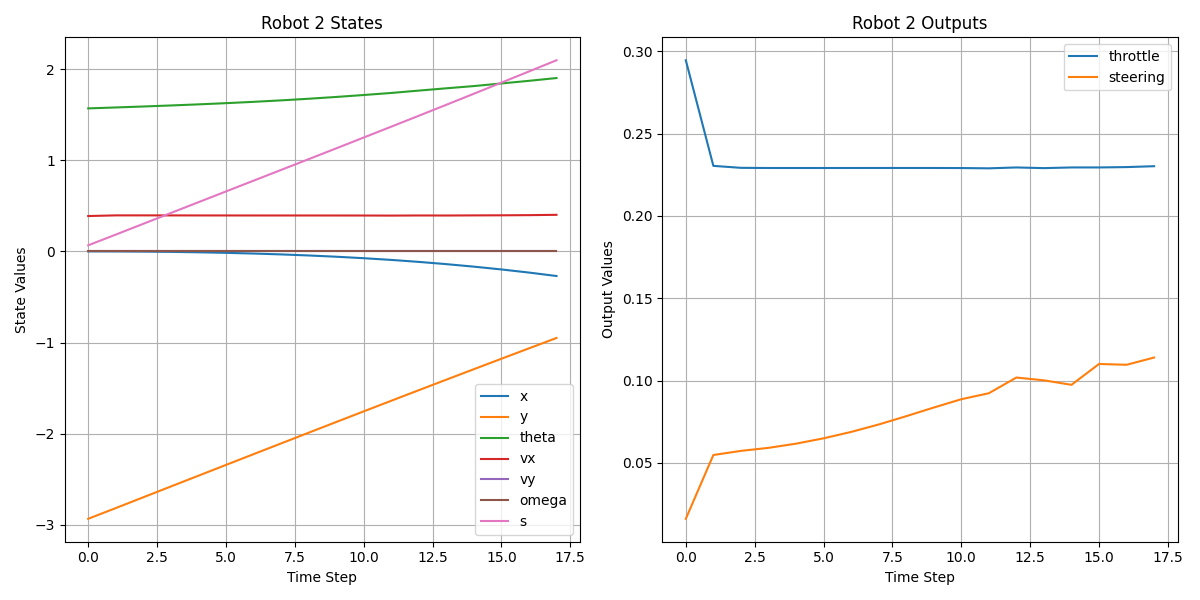
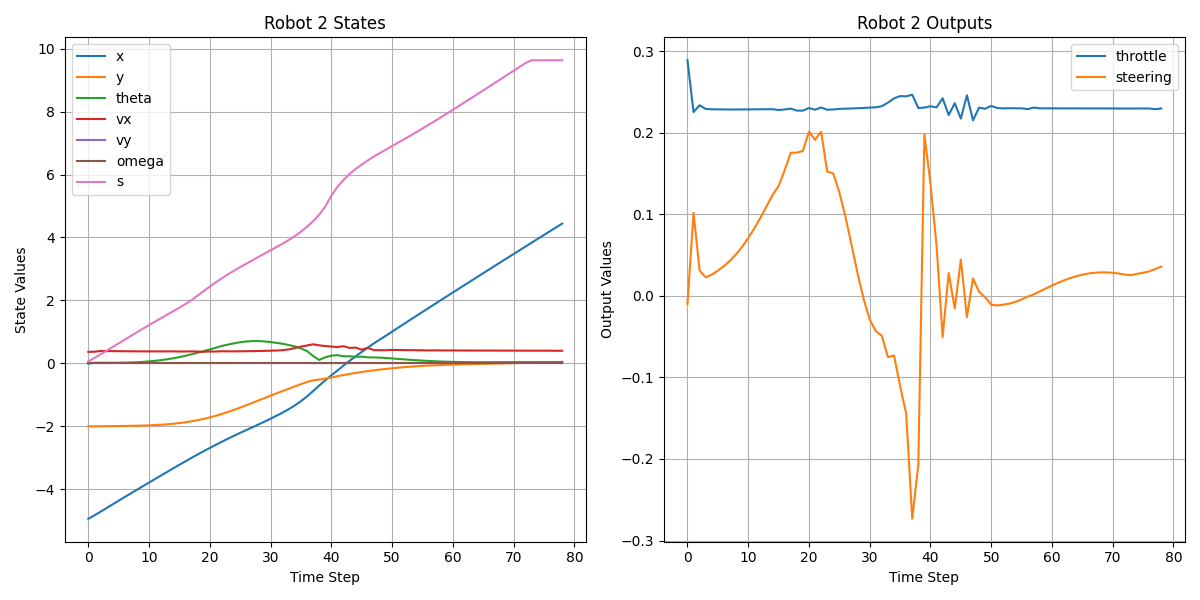
New merging scenario added. Next step, fixing the polytope plotting

diff --git a/dmpc_planner_decentralised/scripts/path_generator.py b/dmpc_planner_decentralised/scripts/path_generator.py
@@ -19,111 +19,117 @@ class PathGenerator:
         self.settings = load_settings(package="dmpc_planner_decentralised")
         self.track_choice = self.settings["track_choice"]
         self.num_robot = self.settings["number_of_robots"]
-        self.positive_track = self.settings["positive_track"]
+
+        self.n_pts = 10
         self.start_x = []
         self.start_y = []
         self.paths = []
+
+        self.load_start_positions()
 
         self.path_pub_1 = rospy.Publisher("roadmap/reference_1", Path, queue_size=1)
         self.path_pub_2 = rospy.Publisher("roadmap/reference_2", Path, queue_size=1)
         rospy.Timer(rospy.Duration(0.5), self.publish_path)
         rospy.spin()
 
-    def raw_track(self, choice, start_x, start_y, positive_track):
-        n_checkpoints = 10
-        if choice == 't_junction' and len(start_x) == 2:
-            # Straight segment from (0, -4) to (0, -2)
-            checkpoints_x_straight1 = np.ones(4) * start_x[1]
-            checkpoints_y_straight1 = np.linspace(start_y[1], -2, 4)
 
-            # 90 degree turn with radius 3 from (1, -2) to (-2, 1)
-            theta = np.linspace(0, 0.5*np.pi, 8)
-            checkpoints_x_turn = -3 + 3 * np.cos(theta)
-            checkpoints_y_turn = -2 + 3 * np.sin(theta)
+    def load_start_positions(self):
+        for i in range(self.num_robot):
+            self.start_x.append(self.settings[f"robot_{i+1}"]["start_x"])
+            self.start_y.append(self.settings[f"robot_{i+1}"]["start_y"])
 
-            # Straight segment from (-2, 1) to (-4, 1)
-            checkpoints_x_straight2 = np.linspace(-3, -6, 4)
-            checkpoints_y_straight2 = np.ones(4) 
 
-            # Concatenate the segments
-            checkpoints_x_2 = np.concatenate((checkpoints_x_straight1[:-1], checkpoints_x_turn[:-1], checkpoints_x_straight2))
-            checkpoints_y_2 = np.concatenate((checkpoints_y_straight1[:-1], checkpoints_y_turn[:-1], checkpoints_y_straight2))
+    def generate_t_junction_track(self):
+        pts_x_strt1 = np.ones(4) * self.start_x[1]
+        pts_y_strt1 = np.linspace(self.start_y[1], -2, 4)
 
-            checkpoints_x_1 = np.linspace(start_x[0], 8, n_checkpoints)
-            checkpoints_y_1 = np.ones(n_checkpoints) * start_y[0]
+        theta = np.linspace(0, 0.5 * np.pi, 8)
+        pts_x_turn = -3 + 3 * np.cos(theta)
+        pts_y_turn = -2 + 3 * np.sin(theta)
 
-            if positive_track:
-                return checkpoints_x_1 + 5, checkpoints_y_1 + 5, checkpoints_x_2 + 5, checkpoints_y_2 + 5
-            else:
-                return checkpoints_x_1, checkpoints_y_1, checkpoints_x_2 * 1, checkpoints_y_2
+        pts_x_strt2 = np.linspace(-3, -6, 4)
+        pts_y_strt2 = np.ones(4)
 
-        elif choice == 'straight_line' or len(start_x) == 1:
-            checkpoints_x_1 = np.linspace(start_x[0], 5, n_checkpoints)
-            checkpoints_y_1 = np.zeros(n_checkpoints)
+        pts_x_2 = np.concatenate((pts_x_strt1[:-1], pts_x_turn[:-1], pts_x_strt2))
+        pts_y_2 = np.concatenate((pts_y_strt1[:-1], pts_y_turn[:-1], pts_y_strt2))
 
-            if positive_track:
-                return checkpoints_x_1 + 5, checkpoints_y_1 + 5
-            return checkpoints_x_1, checkpoints_y_1
+        pts_x_1, pts_y_1 = self.generate_strt_line_track()
+
+        return pts_x_1, pts_y_1, pts_x_2, pts_y_2
+
+
+    def generate_strt_line_track(self):
+        pts_x_1 = np.linspace(self.start_x[0], 5, self.n_pts)
+        pts_y_1 = np.ones(self.n_pts) * self.start_y[0]
+
+        return pts_x_1, pts_y_1
+
+
+    def generate_merging_track(self):
+        pts_x_strt1 = np.linspace(self.start_x[1], -3, 4)
+        pts_y_strt1 = np.ones(4) * self.start_y[1]
+
+        # theta = np.linspace(0, 0.5 * np.pi, 8)
+        # pts_x_turn = -3 + 3 * np.cos(theta)
+        # pts_y_turn = -2 + 3 * np.sin(theta)
+
+        pts_x_strt2 = np.linspace(-1, 6, 4)
+        pts_y_strt2 = np.ones(4) * 0
+
+        pts_x_2 = np.concatenate((pts_x_strt1, pts_x_strt2))
+        pts_y_2 = np.concatenate((pts_y_strt1, pts_y_strt2))
+
+        pts_x_1, pts_y_1 = self.generate_strt_line_track()
+
+        return pts_x_1, pts_y_1, pts_x_2, pts_y_2
 
     def generate_path_msg(self):
-        if self.track_choice == 't_junction' and self.num_robot == 2:
-            self.start_x.extend([self.settings[f"robot_1"]["start_x"], self.settings[f"robot_2"]["start_x"]])
-            self.start_y.extend([self.settings[f"robot_1"]["start_y"], self.settings[f"robot_2"]["start_y"]])
-
-            checkpoints_x_1, checkpoints_y_1, checkpoints_x_2, checkpoints_y_2 = self.raw_track(self.track_choice, self.start_x, self.start_y, self.positive_track)
-
-            path_1 = Path()
-            path_1.header.frame_id = "map"
-            path_1.header.stamp = rospy.Time.now()
-
-            for x, y in zip(checkpoints_x_1, checkpoints_y_1):
-                pose = PoseStamped()
-                pose.header.frame_id = "map"
-                pose.header.stamp = rospy.Time.now()
-                pose.pose.position.x = float(x)
-                pose.pose.position.y = float(y)
-                pose.pose.position.z = 0
-                pose.pose.orientation.w = 1.0  # No rotation
-                path_1.poses.append(pose)
+        if self.track_choice == 't_junction':
+            assert self.num_robot == 2, "T-junction track only supports 2 robots"
+            pts_x_1, pts_y_1, pts_x_2, pts_y_2 = self.generate_t_junction_track()
+            path_1 = self.create_path(pts_x_1, pts_y_1)
             self.paths.append(path_1)
 
-            path_2 = Path()
-            path_2.header.frame_id = "map"
-            path_2.header.stamp = rospy.Time.now()
-
-            for x, y in zip(checkpoints_x_2, checkpoints_y_2):
-                pose = PoseStamped()
-                pose.header.frame_id = "map"
-                pose.header.stamp = rospy.Time.now()
-                pose.pose.position.x = float(x)
-                pose.pose.position.y = float(y)
-                pose.pose.position.z = 0
-                pose.pose.orientation.w = 1.0  # No rotation
-                path_2.poses.append(pose)
+            path_2 = self.create_path(pts_x_2, pts_y_2)
             self.paths.append(path_2)
 
-        elif self.track_choice == 'straight_line' or self.num_robot == 1:
-            self.start_x.append(self.settings[f"robot_1"]["start_x"])
-            self.start_y.append(self.settings[f"robot_1"]["start_y"])
+        elif self.track_choice == 'staight_line':
+            pts_x_1, pts_y_1 = self.generate_strt_line_track()
 
-            checkpoints_x_1, checkpoints_y_1 = self.raw_track(self.track_choice, self.start_x, self.start_y, self.positive_track)
-
-            path_1 = Path()
-            path_1.header.frame_id = "map"
-            path_1.header.stamp = rospy.Time.now()
-
-            for x, y in zip(checkpoints_x_1, checkpoints_y_1):
-                pose = PoseStamped()
-                pose.header.frame_id = "map"
-                pose.header.stamp = rospy.Time.now()
-                pose.pose.position.x = x
-                pose.pose.position.y = y
-                pose.pose.position.z = 0
-                pose.pose.orientation.w = 1.0  # No rotation
-                path_1.poses.append(pose)
+            path_1 = self.create_path(pts_x_1, pts_y_1)
             self.paths.append(path_1)
 
+        elif self.track_choice == 'merging':
+            assert self.num_robot == 2, "Merging track only supports 2 robots"
+
+            pts_x_1, pts_y_1, pts_x_2, pts_y_2 = self.generate_merging_track()
+            
+            path_1 = self.create_path(pts_x_1, pts_y_1)
+            self.paths.append(path_1)
+
+            path_2 = self.create_path(pts_x_2, pts_y_2)
+            self.paths.append(path_2)
+        else: 
+            raise ValueError(f"Invalid track choice: {self.track_choice}")
+
         return self.paths
+
+    def create_path(self, pts_x, pts_y):
+        path = Path()
+        path.header.frame_id = "map"
+        path.header.stamp = rospy.Time.now()
+
+        for x, y in zip(pts_x, pts_y):
+            pose = PoseStamped()
+            pose.header.frame_id = "map"
+            pose.header.stamp = rospy.Time.now()
+            pose.pose.position.x = float(x)
+            pose.pose.position.y = float(y)
+            pose.pose.position.z = 0
+            pose.pose.orientation.w = 1.0  # No rotation
+            path.poses.append(pose)
+
+        return path
 
     def publish_path(self, event):
         paths = self.generate_path_msg()

diff --git a/dmpc_planner_decentralised/scripts/ros_mpc_controller.py b/dmpc_planner_decentralised/scripts/ros_mpc_controller.py
@@ -80,8 +80,6 @@ class ROSMPCPlanner:
                             self._settings[f"robot_{self._idx}"]["start_y"], \
                             self._settings[f"robot_{self._idx}"]["start_theta"] * np.pi]
         
-        self._state[:2] += 5 if self._settings["positive_track"] else 0
-
         self._uinit = np.zeros(self._nu_ca)
         self.initialise_duals()
  
